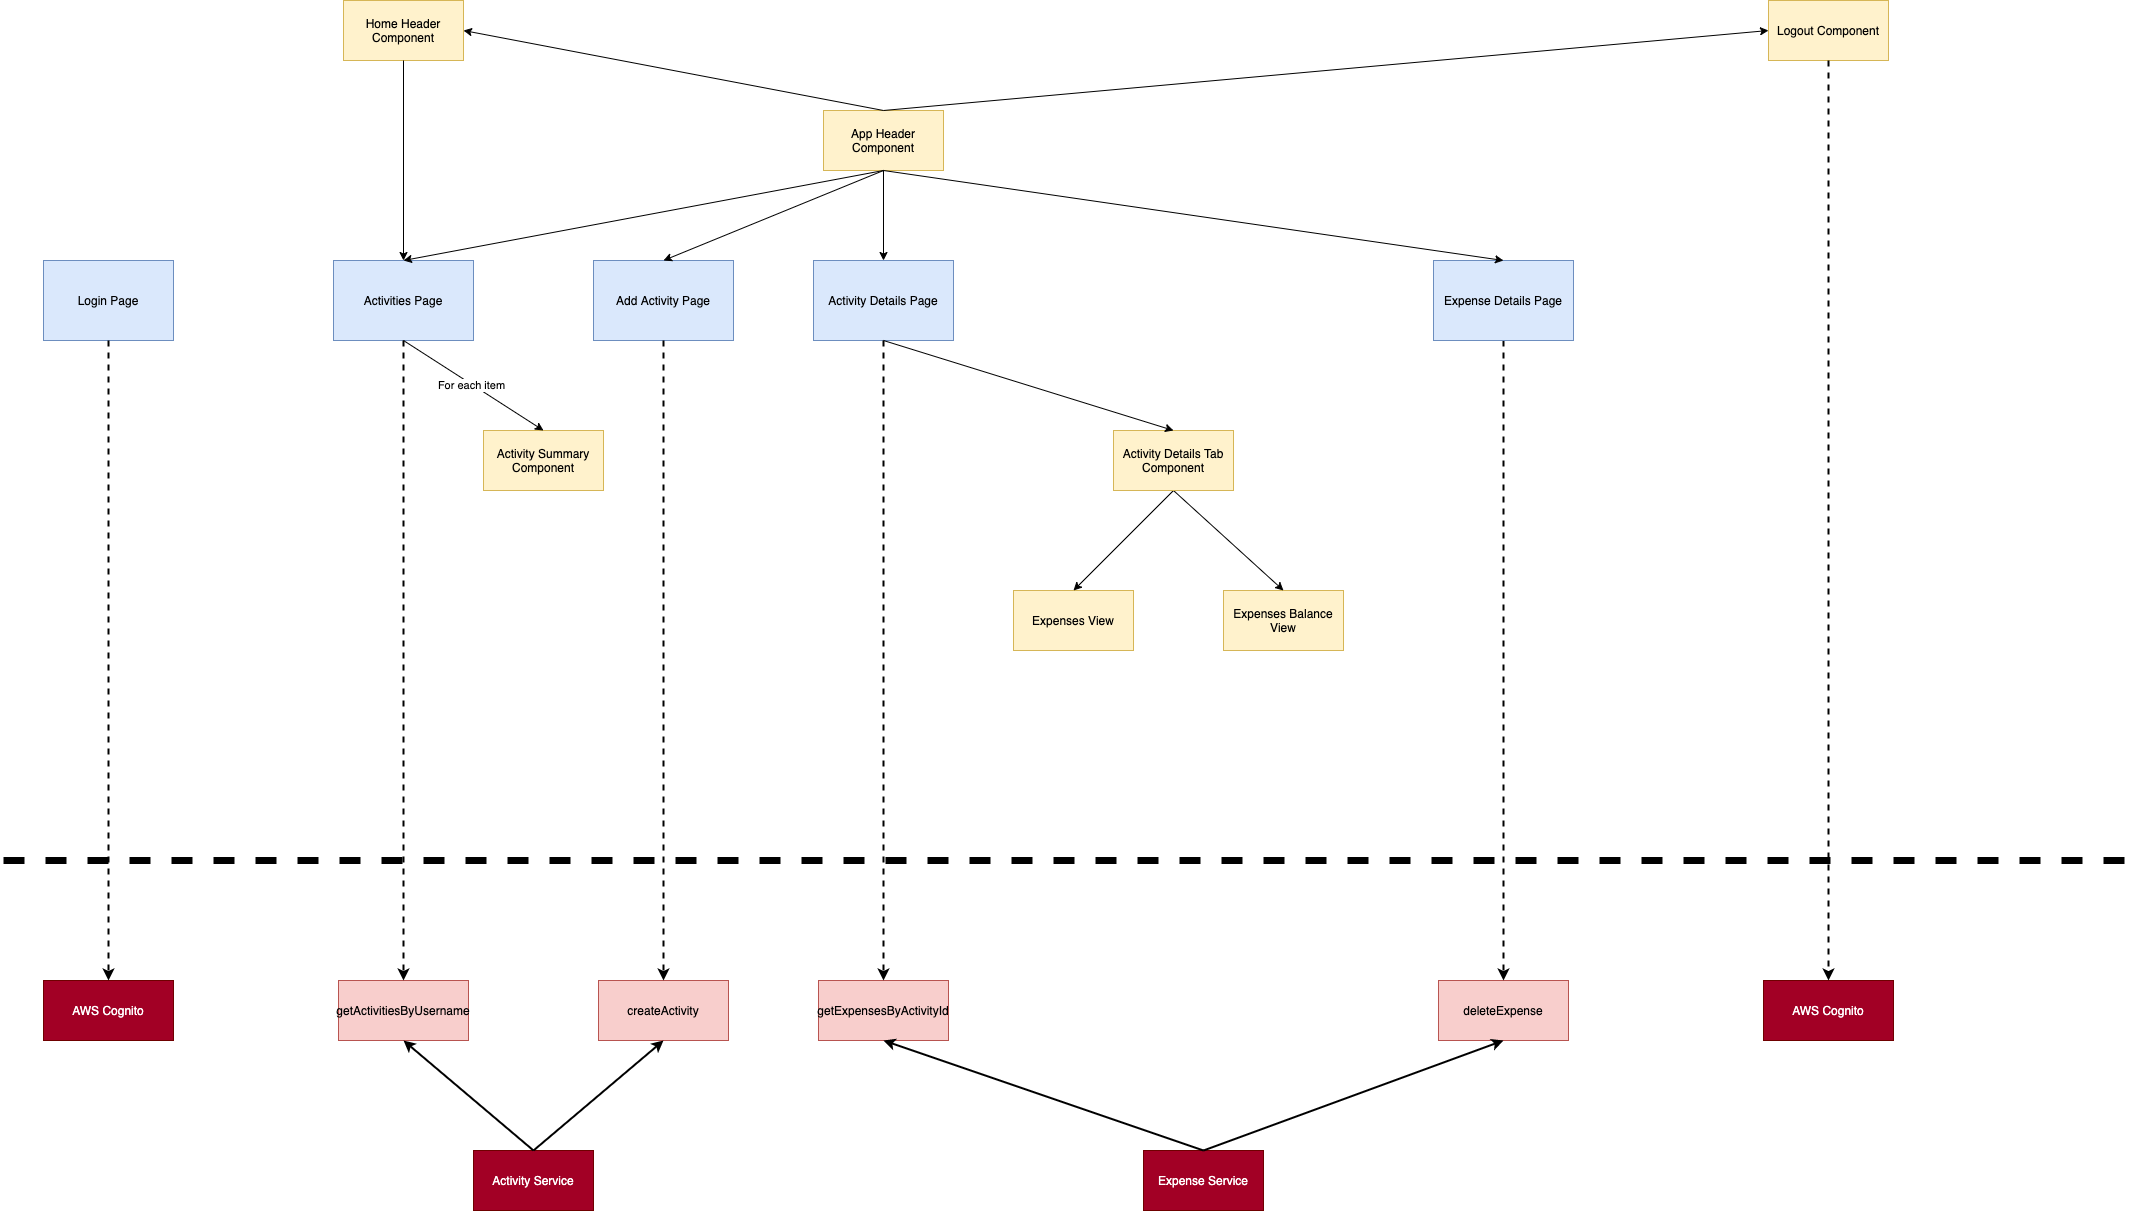
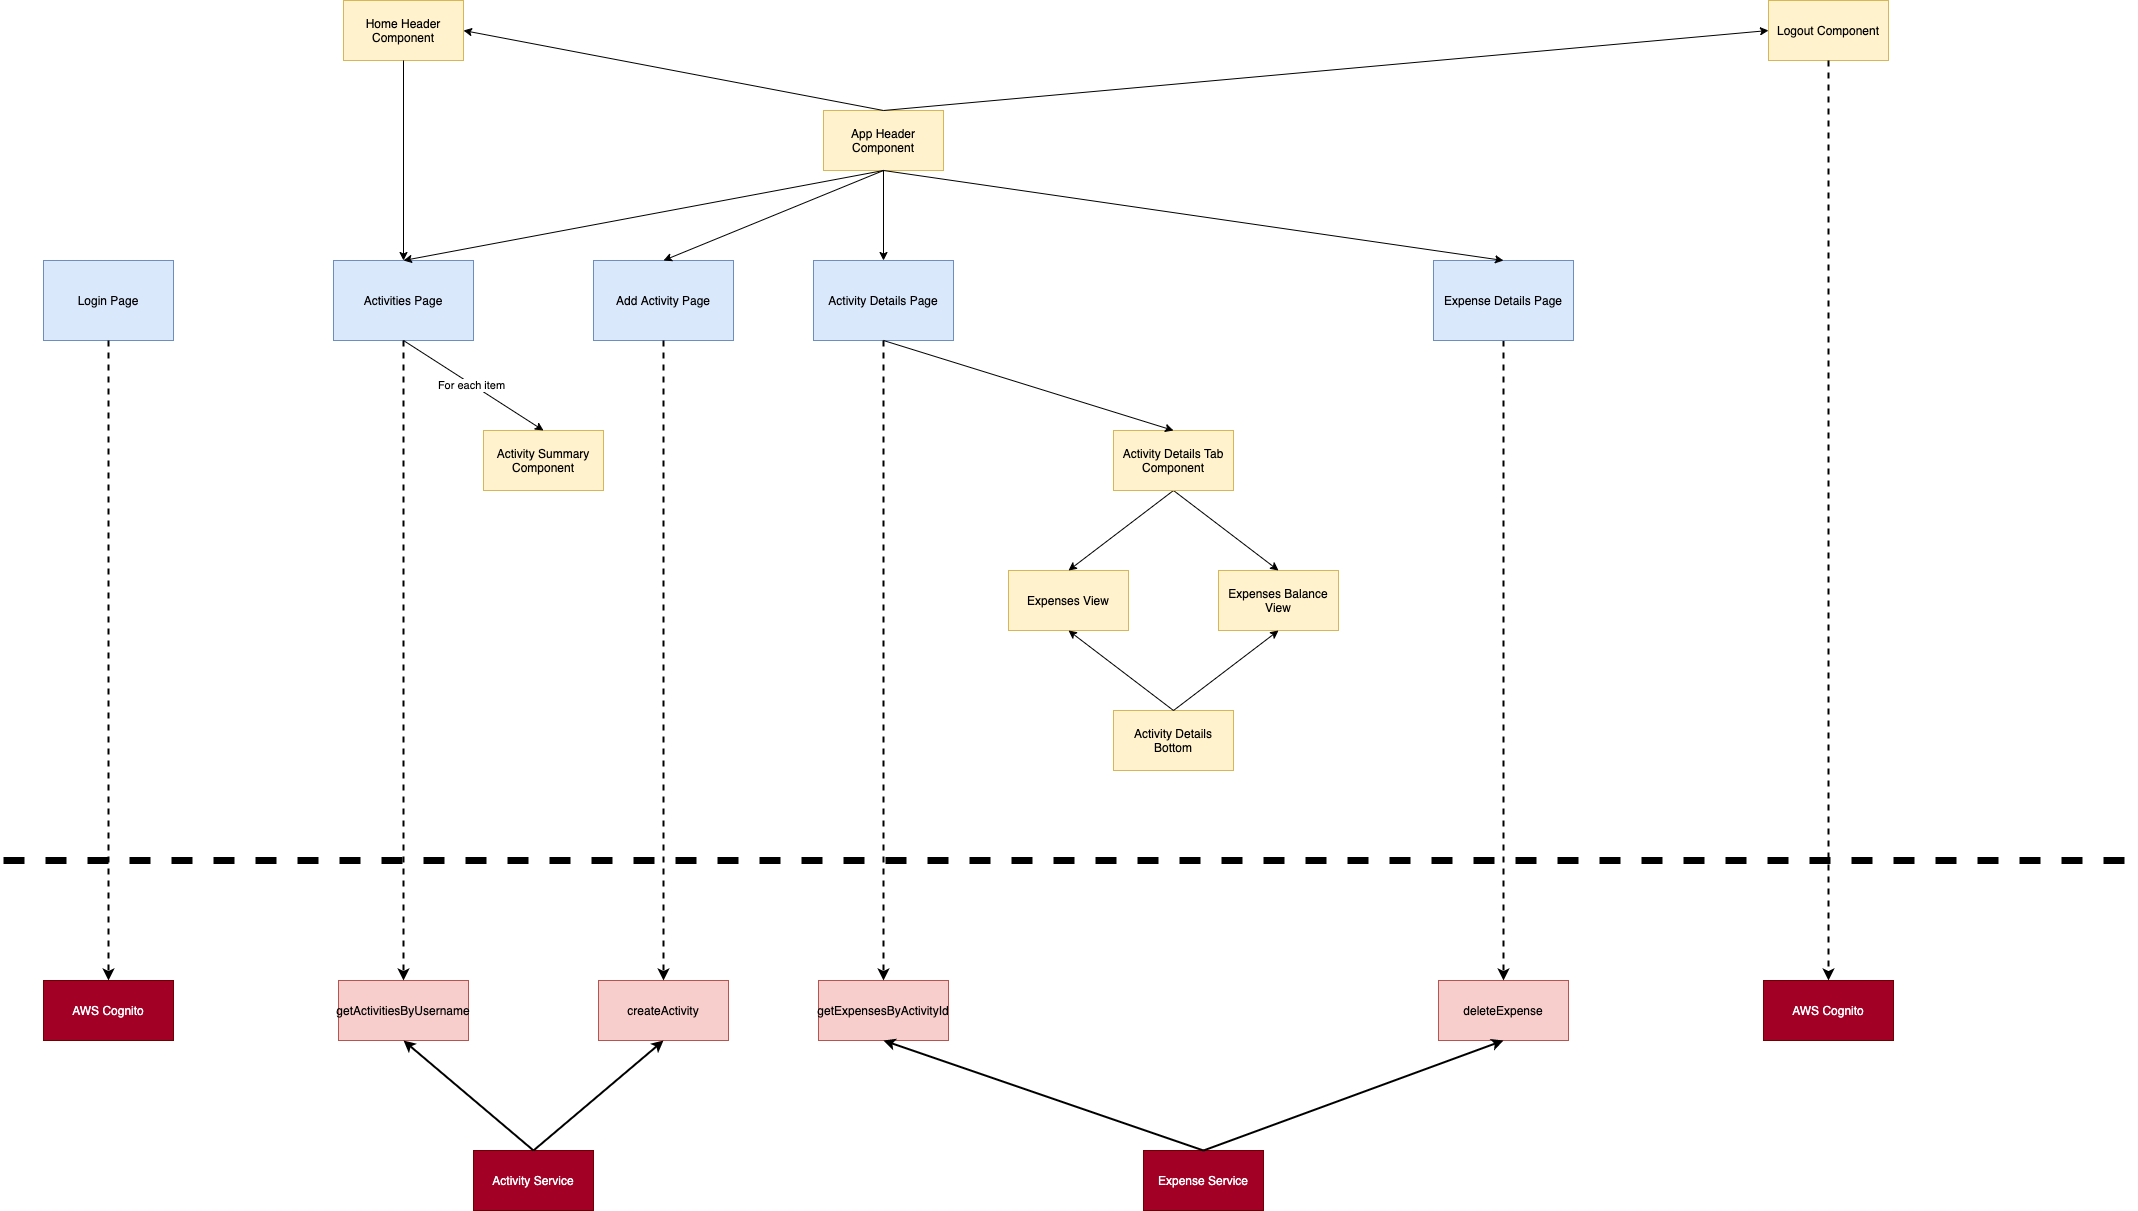
Commit #10 Create activity details bottom component
fixup! #10 Create activity details bottom component

Changed region(s): [[0.463, 0.4583, 0.6483, 0.55], [0.4939, 0.5805, 0.5865, 0.6416]]

diff --git a/src/pages/activityDetails/ActivityDetailsPage.tsx b/src/pages/activityDetails/ActivityDetailsPage.tsx
@@ -3,35 +3,32 @@ import {Auth} from 'aws-amplify';
 import {useAtom} from 'jotai';
 import React, {useCallback, useEffect, useState} from 'react';
 import {RefreshControl, View} from 'react-native';
-import {Header, Icon, Text} from 'react-native-elements';
+import {Text} from 'react-native-elements';
 import {ScrollView} from 'react-native-gesture-handler';
 import {activityAtom} from '../../../App';
 import {ACTIVITY_API} from '../../api/ActivityApi';
 import {EXPENSE_API} from '../../api/ExpenseApi';
 import {Status} from '../../commons/enums/Status';
-import {TEST_USER} from '../../config/UsersConfiguration';
 import Activity from '../../model/Activity';
 import Expense from '../../model/Expense';
+import ActivityDetailsBottom from './components/ActivityDetailsBottom';
 import ActivityDetailsTab from './components/ActivityDetailsTab';
 import ExpensesBalanceView from './views/ExpensesBalanceView';
 import ExpensesView from './views/ExpensesView';
 
-function ActivityDetailsPage() {
+const ActivityDetailsPage = () => {
   const [tabIndex, setTabIndex] = useState<number>(0);
   const [status, setStatus] = useState<Status>(Status.IDLE);
   const [refreshing, setRefreshing] = useState(false);
   const [expenses, setExpenses] = useState<Expense[]>([]);
-  const [user, setUser] = useState<string>('');
+  const [username, setUsername] = useState<string>('');
 
   const [activity, setActivity] = useAtom<Activity>(activityAtom);
-
-  const {navigate} = useNavigation();
 
   const isFocused = useIsFocused();
 
   useEffect(() => {
     fetchActivity();
-    getCurrentUser();
   }, [isFocused]);
 
   const onRefresh = useCallback(() => {
@@ -54,6 +51,7 @@ function ActivityDetailsPage() {
           response.date,
         );
         setActivity(fetchedActivity);
+        getCurrentUser();
         fetchExpenses();
       })
       .catch((error) => {
@@ -64,7 +62,7 @@ function ActivityDetailsPage() {
 
   async function getCurrentUser() {
     const user = await Auth.currentAuthenticatedUser();
-    setUser(user.username);
+    setUsername(user.username);
   }
 
   async function fetchExpenses() {
@@ -95,47 +93,6 @@ function ActivityDetailsPage() {
     }
   }
 
-  function renderBottomLeft() {
-    let userTotal = 0;
-    expenses.map((expense: Expense) => {
-      if (expense.user === user) {
-        userTotal += expense.amount;
-      }
-    });
-    return (
-      <>
-        <Text>My total</Text>
-        <Text>{userTotal}</Text>
-      </>
-    );
-  }
-
-  function renderBottomRight() {
-    let total = 0;
-    expenses.map((expense: Expense) => {
-      total += expense.amount;
-    });
-    return (
-      <>
-        <Text>Total</Text>
-        <Text>{total}</Text>
-      </>
-    );
-  }
-
-  function renderBottomCenter() {
-    return (
-      <>
-        <Icon
-          name="add"
-          onPress={() => {
-            navigate('AddExpense');
-          }}
-        />
-      </>
-    );
-  }
-
   function render() {
     if (status === Status.IDLE || status === Status.IN_PROGRESS) {
       return <Text>Loading...</Text>;
@@ -157,17 +114,13 @@ function ActivityDetailsPage() {
               <ExpensesBalanceView expenses={expenses} />
             )}
           </ScrollView>
-          <Header
-            leftComponent={renderBottomLeft()}
-            centerComponent={renderBottomCenter()}
-            rightComponent={renderBottomRight()}
-          />
+          <ActivityDetailsBottom expenses={expenses} username={username} />
         </>
       );
     }
   }
 
   return render();
-}
+};
 
 export default ActivityDetailsPage;

diff --git a/src/pages/activityDetails/components/ActivityDetailsBottom.tsx b/src/pages/activityDetails/components/ActivityDetailsBottom.tsx
@@ -1,0 +1,67 @@
+import {useNavigation} from '@react-navigation/native';
+import React from 'react';
+import {Header, Icon, Text} from 'react-native-elements';
+import Expense from '../../../model/Expense';
+
+interface ActivityDetailsBottomProps {
+  expenses: Expense[];
+  username: string;
+}
+
+const ActivityDetailsBottom = ({
+  expenses,
+  username,
+}: ActivityDetailsBottomProps) => {
+  const {navigate} = useNavigation();
+
+  const renderTotalUserExpense = () => {
+    let userTotal = 0;
+    expenses.map((expense: Expense) => {
+      if (expense.user === username) {
+        userTotal += expense.amount;
+      }
+    });
+    return (
+      <>
+        <Text>My total</Text>
+        <Text>{userTotal}</Text>
+      </>
+    );
+  };
+
+  const renderTotalExpense = () => {
+    let total = 0;
+    expenses.map((expense: Expense) => {
+      total += expense.amount;
+    });
+    return (
+      <>
+        <Text>Total</Text>
+        <Text>{total}</Text>
+      </>
+    );
+  };
+
+  const addExpense = () => {
+    return (
+      <>
+        <Icon
+          name="add"
+          onPress={() => {
+            navigate('AddExpense');
+          }}
+        />
+      </>
+    );
+  };
+
+  return (
+    <Header
+      leftComponent={renderTotalUserExpense()}
+      centerComponent={addExpense()}
+      rightComponent={renderTotalExpense()}
+    />
+  );
+};
+
+export default ActivityDetailsBottom;
